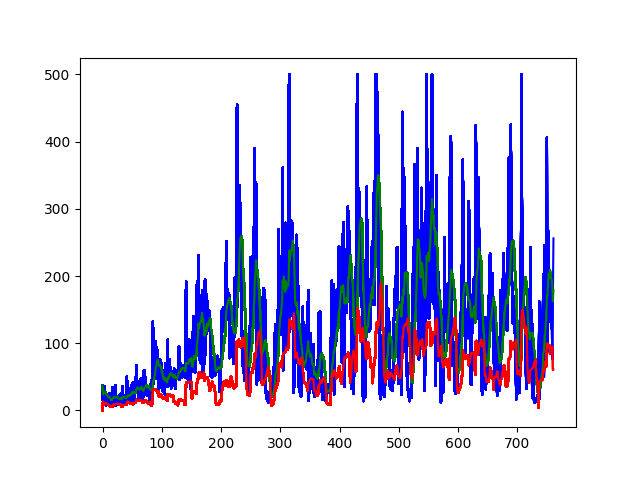
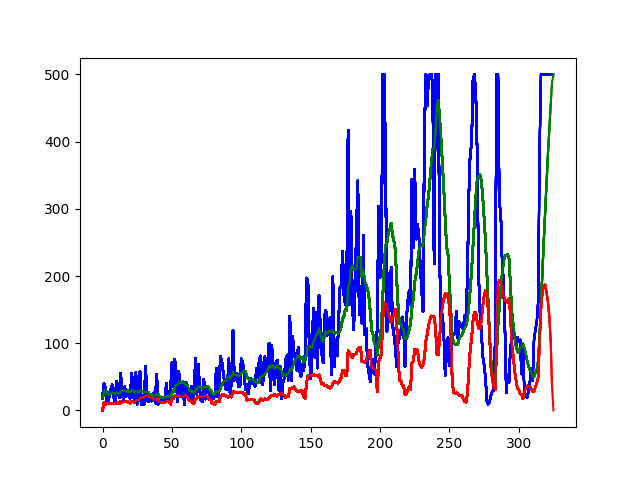
ppo cartpole completed in 325 episodes

diff --git a/cartpole/my_ppo_cartpole.py b/cartpole/my_ppo_cartpole.py
@@ -16,7 +16,7 @@ import numpy as np
 from keras.layers import Dense, LeakyReLU
 from keras.models import Sequential
 from keras.optimizers import Adam
-from keras import regularizers
+#from keras import regularizers
 from keras import backend as K
 
 EPISODES = 1000
@@ -40,19 +40,18 @@ class A2CAgent:
         self.actor_lr = 0.001
         self.critic_lr = 0.005
 
-        #old prob before update
+        # old prob before update
         self.old_prob = 0.
 
-        #epsilon value for clipping formula
+        # epsilon value for clipping formula
         self.epsilon = 0.2
 
         # create models
         self.actor = self.build_actor()
         self.critic = self.build_critic()
 
-        #temp_actor
+        # temp_actor
         self.temp_actor = self.build_actor()
-
 
         if self.load_model:
             self.actor.load_weights("./saved_models/cartpole_actor.h5")
@@ -119,36 +118,42 @@ class A2CAgent:
         actor to get the new prob, then get new/old ratio and do the clip
         self.previous holds prob from before """
 
-        """may need to bring clipped new_prob back here to redo np.random.choice"""
+        """get the old aprob, action is already determined"""
         old_policy = self.actor.predict(state, batch_size=1).flatten()
-        action = np.random.choice(self.action_size, 1, p=old_policy)[0]
+        old_aprob = old_policy[action]
         """use temp_actor to get new prob so we don't update the actual actor until
-        we get the clippped update"""
+        we do the clip op"""
         curr_weights = self.actor.get_weights()
         self.temp_actor.set_weights(curr_weights)
         self.temp_actor.fit(state, advantages, epochs=1, verbose=0)
-
-        new_pro = self.temp_actor.predict(state, batch_size=1).flatten()
-
-        #clipping here, get weights and set on to actor to update
-        clip = clipper(old_prob, new_prob, advantages)
-        self.actor.set_weights(new_weights)
-
-        self.critic.fit(state, target, epochs=1, verbose=0)
-
-    def clipper(self, old_prob, new_prob, advantages):
-        ratio = new_prob/old_prob
-        #scale = min(ratio * advantages, K.clip(ratio, 1 - self.epsilon, 1 + self.epsilon) * advantages)
+        new_policy = self.temp_actor.predict(state, batch_size=1).flatten()
+        new_aprob = new_policy[action]
+        ########################stupid fucking Python
+        ratio = new_aprob / old_aprob
+        # scale = min(ratio * advantages, K.clip(ratio, 1 - self.epsilon, 1 + self.epsilon) * advantages)
         no_clip = ratio * advantages
-        clipped = K.clip(ratio, 1 - self.epsilon, 1 + self.epsilon) * advantages
+        clipped = np.clip(ratio, 1 - self.epsilon, 1 + self.epsilon) * advantages
+
+        self.actor.fit(state, np.minimum(no_clip, clipped), epochs=1, verbose=0)
+        # clipping here, get weights and set on actor to update
+        #clipped_advantage = clip(old_aprob, new_aprob, advantages)
+
+        # we want to do below
+        #self.actor.fit(state, clipped_advantage, epochs=1, verbose=0)
+        self.critic.fit(state, target, epochs=1, verbose=0)
+"""
+    def clip(self, old_prob, new_prob, advs):
+        ratio = new_prob / old_prob
+        # scale = min(ratio * advantages, K.clip(ratio, 1 - self.epsilon, 1 + self.epsilon) * advantages)
+        no_clip = ratio * advs
+        clipped = K.clip(ratio, 1 - self.epsilon, 1 + self.epsilon) * advs
         if no_clip < clipped:
-            return False
+            return no_clip
         else:
-            return True
+            return clipped
 
-
-
-
+        return None
+"""
 if __name__ == "__main__":
 
     env = gym.make('CartPole-v1')
@@ -209,8 +214,3 @@ if __name__ == "__main__":
         if episode % 50 == 0:
             agent.actor.save_weights("./saved_models/cartpole_actor.h5")
             agent.critic.save_weights("./saved_models/cartpole_critic.h5")
-
-
-
-
-
